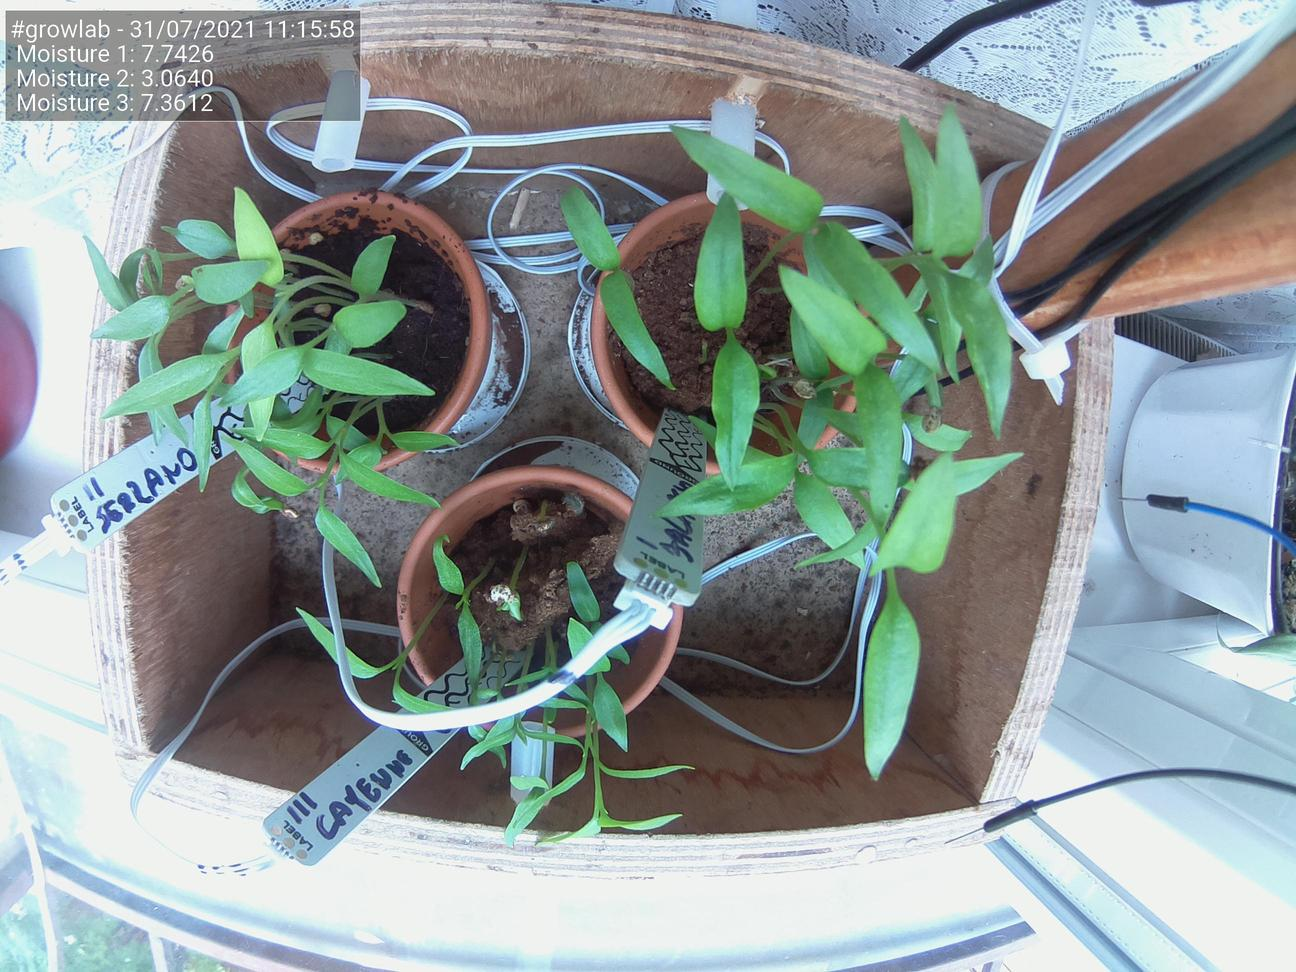
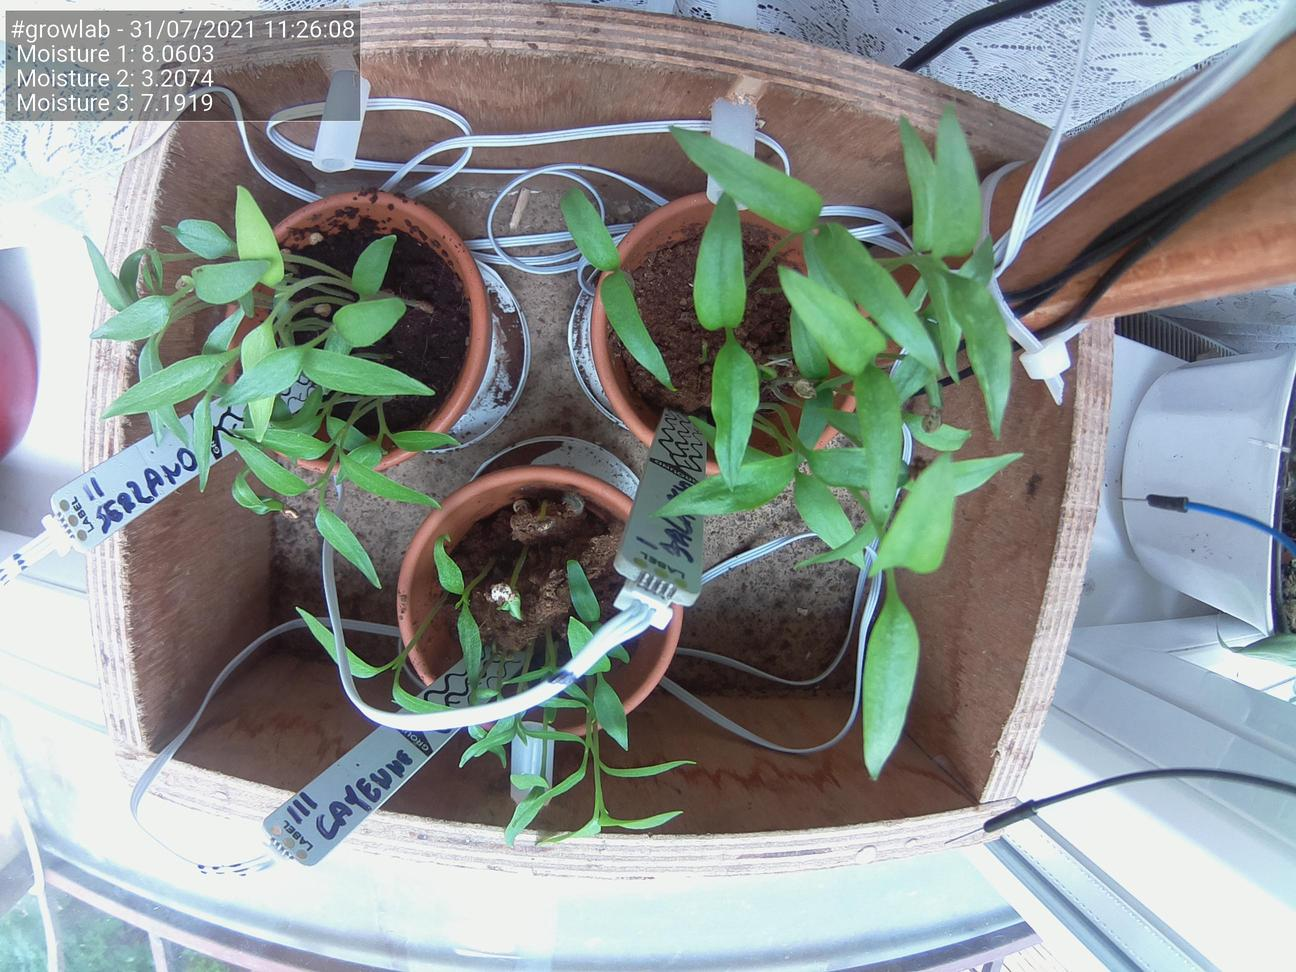
Update images at Sat 31 Jul 11:26:14 BST 2021

diff --git a/docs/index.html b/docs/index.html
@@ -51,25 +51,25 @@
                                 <td>Date</td>
                                 <td>31/07/2021</td>
                                 <td>Time</td>
-                                <td>11:15:58</td>
+                                <td>11:26:08</td>
                             </tr>
                             <tr>
                                 <td>Temperature</td>
                                 <td>N/A</td>
                                 <td>Moisture 1</td>
-                                <td>7.7426</td>
+                                <td>8.0603</td>
                             </tr>
                             <tr>
                                 <td>Humidity</td>
                                 <td>N/A</td>
                                 <td>Moisture 2</td>
-                                <td>3.0640</td>
+                                <td>3.2074</td>
                             </tr>
                             <tr>
                                 <td>Pressure</td>
                                 <td>N/A</td>
                                 <td>Moisture 3</td>
-                                <td>7.3612</td>
+                                <td>7.1919</td>
                             </tr>
                         </tbody>
                     </table>
@@ -77,7 +77,7 @@
 
                 <h5>Latest image</h5>
                 <div style="width: 85%;">
-                            <img class="figure-img img-fluid rounded" src="./preview.jpg?uid=1627726563.9973853">
+                            <img class="figure-img img-fluid rounded" src="./preview.jpg?uid=1627727173.9126506">
                 </div>
             </div>
         </div>
